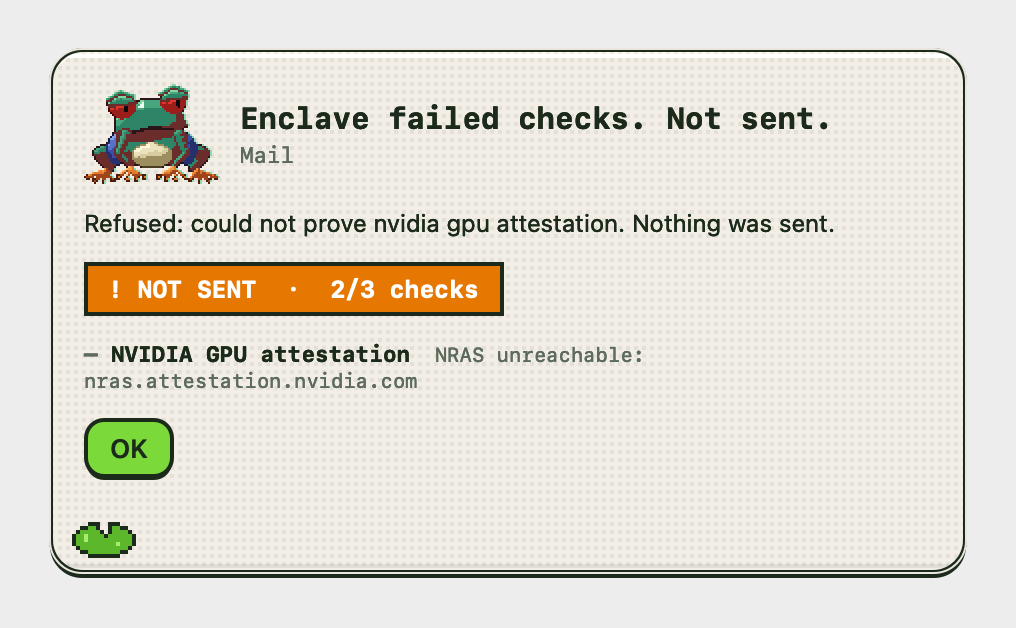
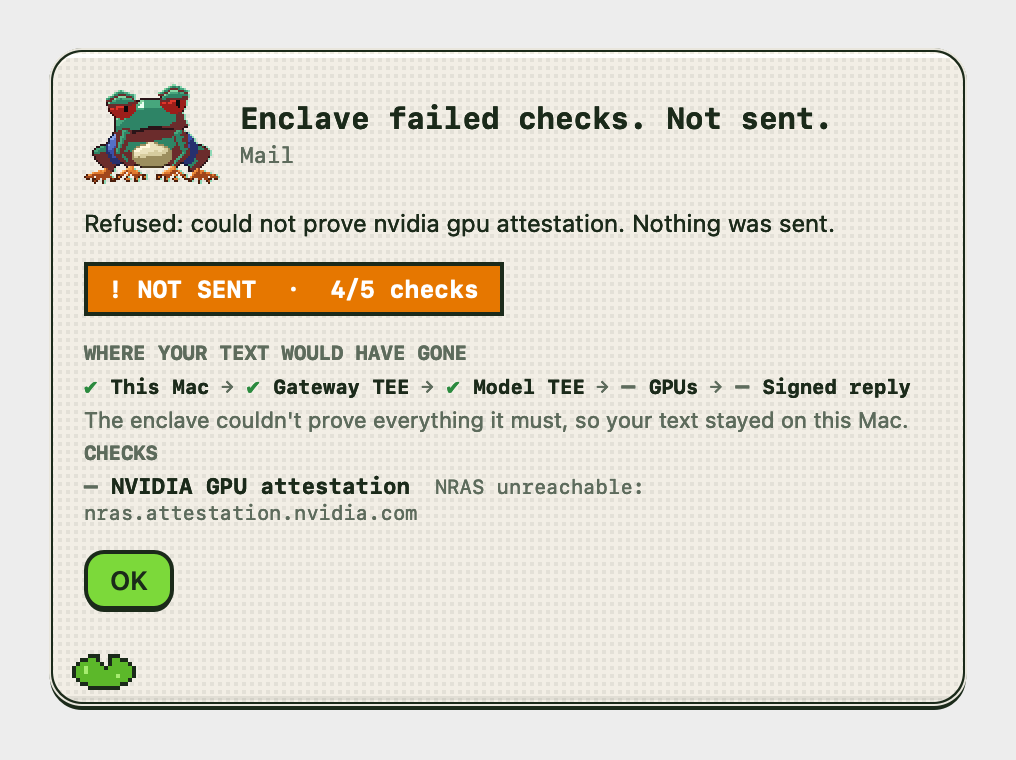
Mac privacy inspector: 'Where your text went' path (This Mac → Gateway TEE → Model TEE → GPUs → Signed reply) with plain words per trust level, above the checks; refusal cards show it too
At-rest encryption and in-use TEE protection are worded separately; nothing on chain is said
only where true. Tests cover a skipped GPU never shown as proven. Snapshots re-rendered for the
refusal and reply-rejected cards (simulated verifications; the real-reply panel is unchanged).

Claude-Session: https://claude.ai/code/session_01FbPmyYV7mvZL1kCYKNPSR2

Changed region(s): [[0.0305, 0.0605, 0.9764, 0.9379], [0.4272, 0.6354, 0.6407, 0.6656], [0.0305, 0.0908, 0.061, 0.121]]

diff --git a/macos/PixlMemory/Sources/PixlMemoryKit/Models.swift b/macos/PixlMemory/Sources/PixlMemoryKit/Models.swift
@@ -55,6 +55,52 @@ public struct Verification: Codable, Sendable, Equatable {
         }
     }
 
+    /// One hop of "where your text went", for the privacy inspector.
+    public struct Hop: Equatable, Sendable {
+        public let name: String
+        public let mark: String  // ✔ proven · ! proven with a caveat · ✖ failed · – not checked
+    }
+
+    /// This Mac → gateway TEE → model TEE → GPUs → signed reply, each marked from its checks.
+    public var trustPath: [Hop] {
+        func mark(_ match: (Check) -> Bool) -> String {
+            let cs = checks.filter(match)
+            if cs.isEmpty { return "–" }
+            if cs.contains(where: { $0.status == "fail" }) { return "✖" }
+            if cs.contains(where: { $0.status == "skip" }) { return "–" }
+            return cs.contains(where: { $0.status == "warn" }) ? "!" : "✔"
+        }
+        let sig: String = switch trust {
+            case "enclave_signed": "✔"
+            case "gateway_signed", "unsigned": "!"
+            case "rejected": "✖"
+            default: mark { $0.id.hasPrefix("signature.") }
+        }
+        return [Hop(name: "This Mac", mark: "✔"),
+                Hop(name: "Gateway TEE", mark: mark { $0.id.hasPrefix("gateway.") }),
+                Hop(name: "Model TEE", mark: mark { $0.id.hasPrefix("model.") && $0.id != "model.gpu" }),
+                Hop(name: "GPUs", mark: mark { $0.id == "model.gpu" }),
+                Hop(name: "Signed reply", mark: trust == "refused" ? "–" : sig)]
+    }
+
+    /// Plain words for where the text went and what protects it. Never conflates at-rest and in-use.
+    public var plainWords: String {
+        switch trust {
+        case "enclave_signed":
+            "Your text went over HTTPS to NEAR AI's attested gateway, then to the model's enclave (Intel TDX + NVIDIA confidential GPUs), which signed this exact reply. The result is kept encrypted on this Mac. Nothing you wrote goes on chain."
+        case "gateway_signed":
+            "The enclaves were attested before your text left. This reply was signed by NEAR AI's attested gateway, not by the model's enclave itself: a weaker proof. Nothing you wrote goes on chain."
+        case "unsigned":
+            "The enclaves were attested before your text left, but no signature for this reply arrived, so it can't be tied to them."
+        case "rejected":
+            "Your text reached the attested enclave, but this reply couldn't be proven to come from it, so it was thrown away."
+        case "refused":
+            "The enclave couldn't prove everything it must, so your text stayed on this Mac."
+        default:
+            summary
+        }
+    }
+
     /// The deployment line from the model's signed deployment log, if present.
     public var deployment: String? {
         checks.first { $0.id == "model.deploy" && $0.status == "pass" }?.detail

diff --git a/macos/PixlMemory/Sources/PixlMemoryKit/PolishView.swift b/macos/PixlMemory/Sources/PixlMemoryKit/PolishView.swift
@@ -109,7 +109,9 @@ public final class PolishView: NSView {
             let card = SuggestionCard(text: r.suggestion, width: innerWidth)
             card.onDropped = { [weak self] in self?.onDropped?(r) }
             stack.addArrangedSubview(card)
+            inspected = v
             let details = checksList(v.checks, deployment: v.deployment)
+            inspected = nil
             self.details = details
             details.isHidden = !showDetails
             let copy = PixelButton(title: "Copy", primary: false) { [weak self] in self?.onCopy?(r.suggestion) }
@@ -126,7 +128,9 @@ public final class PolishView: NSView {
             switch e {
             case .attestationFailed(_, let v?), .replyRejected(_, let v?):
                 stack.addArrangedSubview(VerdictBadge(verification: v))
+                inspected = v
                 stack.addArrangedSubview(checksList(v.checks.filter { $0.status != "pass" }, deployment: nil))
+                inspected = nil
             default: break
             }
             stack.addArrangedSubview(buttonRow([PixelButton(title: "OK", primary: true) { [weak self] in self?.onClose?() }]))
@@ -193,11 +197,29 @@ public final class PolishView: NSView {
         return row
     }
 
+    /// When set, checksList leads with the privacy inspector (trust path + plain words) for it.
+    private var inspected: Verification?
+
     private func checksList(_ checks: [Check], deployment: String?) -> NSView {
         let col = NSStackView()
         col.orientation = .vertical
         col.alignment = .leading
         col.spacing = 3
+        if let v = inspected {
+            col.addArrangedSubview(caption(v.trust == "refused" ? "WHERE YOUR TEXT WOULD HAVE GONE" : "WHERE YOUR TEXT WENT"))
+            let path = NSMutableAttributedString()
+            for (i, h) in v.trustPath.enumerated() {
+                let color = h.mark == "✔" ? Theme.verified : h.mark == "!" ? Theme.partial : h.mark == "✖" ? Theme.failed : Theme.textMuted
+                if i > 0 { path.append(NSAttributedString(string: " → ", attributes: [.font: Theme.mono(10), .foregroundColor: Theme.textMuted])) }
+                path.append(NSAttributedString(string: "\(h.mark) ", attributes: [.font: Theme.mono(11, .bold), .foregroundColor: color]))
+                path.append(NSAttributedString(string: h.name, attributes: [.font: Theme.mono(10, .bold), .foregroundColor: Theme.text]))
+            }
+            let p = wrapping("", font: Theme.mono(10), color: Theme.text)
+            p.attributedStringValue = path
+            col.addArrangedSubview(p)
+            col.addArrangedSubview(wrapping(v.plainWords, font: .systemFont(ofSize: 11), color: Theme.textMuted))
+            col.addArrangedSubview(caption("CHECKS"))
+        }
         for c in checks {
             let mark: String, color: NSColor
             switch c.status {

diff --git a/macos/PixlMemory/Tests/PixlMemoryKitTests/PixlMemoryKitTests.swift b/macos/PixlMemory/Tests/PixlMemoryKitTests/PixlMemoryKitTests.swift
@@ -138,6 +138,17 @@ struct ClientTests {
         } else { Issue.record("response_untrusted should map to replyRejected") }
         #expect(!MemoryError.replyRejected("x", nil).detail.contains("not sent"))
         #expect(MemoryError.replyRejected("x", nil).detail.contains("thrown away"))
+        // The privacy inspector's path: a skipped GPU check is never shown as proven.
+        let gpuSkipped = Verification(verdict: "partial", summary: "s", checks: [
+            Check(id: "gateway.quote", label: "", status: "pass", detail: ""),
+            Check(id: "model.quote", label: "", status: "warn", detail: ""),
+            Check(id: "model.gpu", label: "", status: "skip", detail: "")], model: "m", trust: "refused")
+        #expect(gpuSkipped.trustPath.map(\.mark) == ["✔", "✔", "!", "–", "–"])
+        #expect(gpuSkipped.plainWords.contains("stayed on this Mac"))
+        let signed = Verification(verdict: "verified", summary: "s", checks: [
+            Check(id: "model.gpu", label: "", status: "pass", detail: ""),
+            Check(id: "signature.valid", label: "", status: "pass", detail: "")], model: "m", trust: "enclave_signed")
+        #expect(signed.trustPath.last?.mark == "✔" && signed.plainWords.contains("encrypted on this Mac"))
         // by the error's code, not the status: /wallet/limits says 409 no_wallet, 400 bad_limit
         #expect(err(409, #"{"error":"no_wallet","message":"the wallet isn't configured"}"#) == .rejected("the wallet isn't configured"))
         #expect(err(400, #"{"error":"bad_limit","message":"over the ceiling"}"#) == .rejected("over the ceiling"))

diff --git a/macos/PixlMemory/Sources/PixlSnapshots/main.swift b/macos/PixlMemory/Sources/PixlSnapshots/main.swift
@@ -321,7 +321,9 @@ func run() throws {
     // 4. What the user sees if the enclave fails verification.
     // These are the exact check ids/details the service returns (memory/tests/test_preflight_matrix.py).
     let gpuDown = Verification(verdict: "partial", summary: "Refused: could not prove nvidia gpu attestation. Nothing was sent.",
-        checks: [Check(id: "model.quote", label: "Model Intel TDX quote", status: "pass", detail: "signed by Intel, TCB UpToDate"),
+        checks: [Check(id: "gateway.quote", label: "Gateway Intel TDX quote", status: "pass", detail: "signed by Intel, TCB UpToDate"),
+                 Check(id: "gateway.nonce", label: "Gateway fresh for this request", status: "pass", detail: "our nonce is in the signed report data"),
+                 Check(id: "model.quote", label: "Model Intel TDX quote", status: "pass", detail: "signed by Intel, TCB UpToDate"),
                  Check(id: "model.nonce", label: "Model fresh for this request", status: "pass", detail: "our nonce is in the signed report data"),
                  Check(id: "model.gpu", label: "NVIDIA GPU attestation", status: "skip", detail: "NRAS unreachable: nras.attestation.nvidia.com")],
         model: "z-ai/glm-5.3-flash", trust: "refused", blocking: ["model.gpu: skip: NRAS unreachable"])
